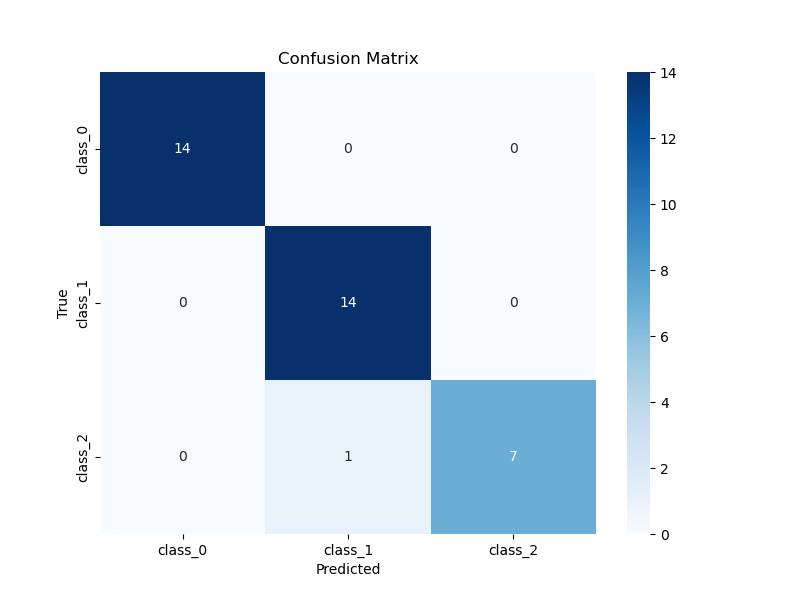
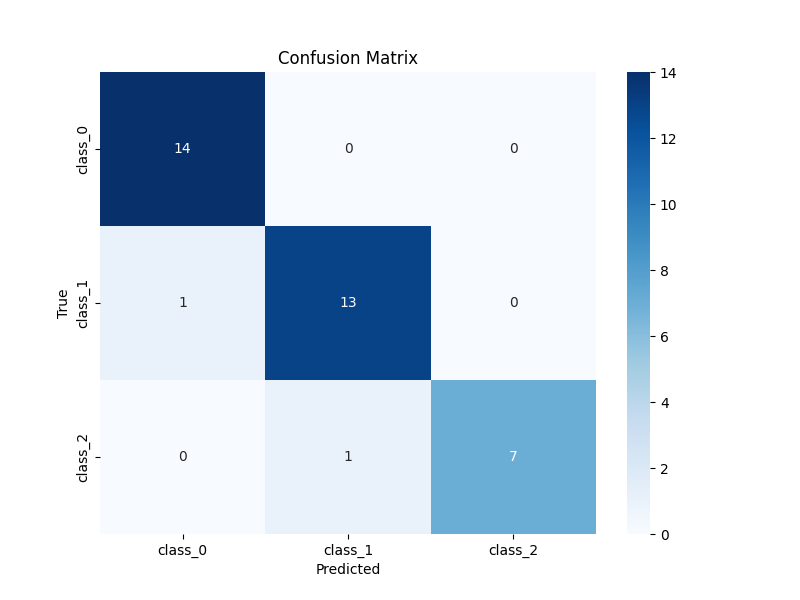
experiment through dagshub

diff --git a/src/wine_quality_dagshub.py b/src/wine_quality_dagshub.py
@@ -1,0 +1,64 @@
+import os
+os.environ["MLFLOW_ENABLE_LOGGED_MODEL_CREATION"] = "false"
+import mlflow
+import mlflow.sklearn
+from sklearn.datasets import load_wine
+from sklearn.ensemble import RandomForestClassifier
+from sklearn.model_selection import train_test_split
+from sklearn.metrics import accuracy_score
+from sklearn.metrics import confusion_matrix
+import matplotlib.pyplot as plt
+import seaborn as sns
+import dagshub
+
+dagshub.init(repo_owner='swapnasubham1993', repo_name='wine-quality-mlflow', mlflow=True)
+mlflow.set_tracking_uri("https://dagshub.com/swapnasubham1993/wine-quality-mlflow.mlflow")
+
+# Load Wine dataset
+wine = load_wine()
+X = wine.data
+y = wine.target
+
+# Train Test split
+X_train, X_test, y_train, y_test = train_test_split(X, y, test_size = 0.2, random_state = 42)
+
+# Define the params for RF model
+max_depth = 8
+n_estimators = 9
+
+# Mention Your experiment
+mlflow.set_experiment("Wine_Quality_Experiment")
+
+with mlflow.start_run():
+    rf = RandomForestClassifier(max_depth=max_depth, n_estimators=n_estimators, random_state=42)
+    rf.fit(X_train, y_train)
+
+    y_pred = rf.predict(X_test)
+    accuracy = accuracy_score(y_test, y_pred)
+
+    mlflow.log_metric("accuracy", accuracy)
+    mlflow.log_param("max_depth", max_depth)
+    mlflow.log_param("n_estimators", n_estimators)
+
+    # Create a confusion matrix
+    cm = confusion_matrix(y_test, y_pred)
+    plt.figure(figsize=(8, 6))
+    sns.heatmap(cm, annot=True, fmt="d", cmap="Blues", xticklabels=wine.target_names, yticklabels=wine.target_names)
+    plt.xlabel("Predicted")
+    plt.ylabel("True")
+    plt.title("Confusion Matrix")
+    plt.savefig("Confusion Matrix.png")
+
+    # Log the confusion matrix as an artifact
+    mlflow.log_artifact("Confusion Matrix.png")
+    mlflow.log_artifact(__file__)
+
+    # Set Tags
+    mlflow.set_tags({"Author": "Anik", "model_type": "RandomForest", "dataset": "Wine"})
+
+    # Log the model
+    mlflow.sklearn.log_model(rf, "RandomForestModel", registered_model_name=None)
+    
+    print(f"Accuracy: {accuracy}")
+
+
